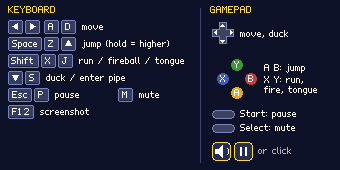
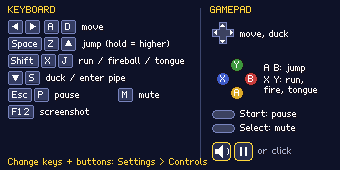
v0.7.0: Tasten und Gamepad-Buttons in den Settings umbelegen
- Settings > Controls: pro Aktion Taste und (für Springen, Rennen,
  Pause, Mute) Gamepad-Button umbelegen, "Defaults" setzt zurück;
  Belegungen werden getauscht statt doppelt vergeben (controls_config.gd)
- "Touch keys" Auto/On/Off sitzt jetzt auf dem Controls-Screen
- Hilfe: Hinweis auf Settings > Controls

Changed region(s): [[0.0294, 0.9412, 0.6176, 0.9706]]

diff --git a/tools/gen_help.py b/tools/gen_help.py
@@ -160,6 +160,7 @@ def page_controls():
     glass_btn(d, 212, 142, "speaker")
     glass_btn(d, 234, 142, "pause")
     text(d, (258, 147), "or click", fill=DIM)
+    text(d, (8, 158), "Change keys + buttons: Settings > Controls", fill=GOLD)
     return img
 
 

diff --git a/CLAUDE.md b/CLAUDE.md
@@ -59,6 +59,16 @@ davon ist aus Nintendo-Spielen übernommen (Figuren nur „im Stil von“).
 Absteigen vom Drachen: ↓ + Sprung. `[input]` nie von Hand editieren, sondern
 `godot --headless --path . --script res://tools/setup_input.gd`.
 
+**Umbelegen (v0.7)**: Settings → Controls. `controls_config.gd`
+(`ControlsConfig`) legt Overrides aus settings.cfg `[controls]`
+(`<aktion>.key` = physical keycode, `<aktion>.pad` = Button-Index) über die
+Defaults aus project.godot: `apply()` beim Start und nach jeder Änderung
+(`InputMap.load_from_project_settings()` + Overrides). Taste = zusätzlich
+(Default-Tasten bleiben), Gamepad-Button = ersetzt die Buttons der Aktion;
+beides wird anderen Aktionen weggenommen (Tausch statt Doppelbelegung).
+D-Pad/Stick-Bewegung ist fest. Dort auch „Touch keys“ Auto/On/Off.
+`ui_accept`/`ui_cancel` (Menüs: A/B) bleiben unverändert.
+
 ## Physik (player.gd, px/s bei 16-px-Tiles)
 
 Laufen 90, Rennen 155, Sprung 270 (+50 bei Vollgas), Schwerkraft 560 solange
@@ -285,6 +295,6 @@ skaliert (NEAREST). Adaptive-Vordergrund bleibt im sichtbaren Kreis (~61 %).
 
 ## Offen / nächste Schritte
 
-- Settings: Tastenbelegung änderbar (Tastatur + Gamepad).
+- Weitere Welten/Level, Boss-Burg am Ende einer Welt, weitere Gegner.
 - `gen_audio.py` rendert Rauschen nicht deterministisch: nach einem Lauf
   unveränderte Stücke per `git checkout` zurücksetzen (sonst Binär-Churn).
